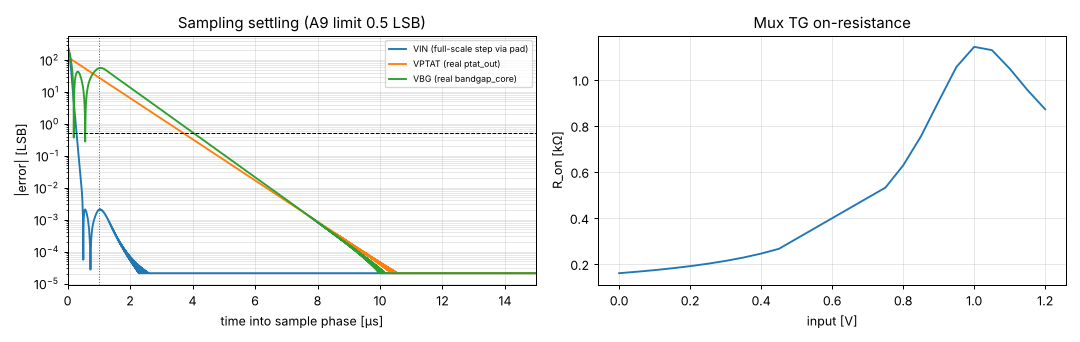
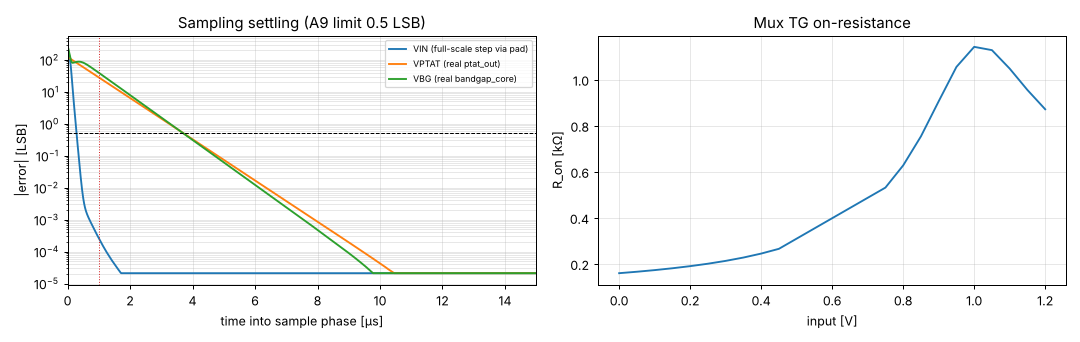
Rerun stages 3, 4, 5, 7 without the stray PSRR cap; fix netlist.sh
The stage 3 PSRR-cap sweep left xschem/bandgap_core.sch with a 2.4 pF
MOS cap (CPS_W=14) after the generator was reset to CPS_W=0, so committed
schematics and results included it. Regenerated and reran: all checks
still pass (bandgap PM 82.5 deg, 79.9 deg with PTAT branch; B7 20.9 dB at
vbg_f). Precision transients now use reltol 1e-5. netlist.sh also enables
'*+' continuation lines of long .subckt port lists.

Claude-Session: https://claude.ai/code/session_018xb9mH8bN9u9RTJdbtix1L

diff --git a/sim/bandgap/README.md b/sim/bandgap/README.md
@@ -18,7 +18,7 @@ testbenches in parallel, writes `results.md` and `plots/bandgap.png`).
 
 ## Phase 1 results (tt, 27 °C, 1.8 V)
 
-See `results.md`. B1, B2, B3 pass; the loop is stable with 66° phase margin; startup works on a
+See `results.md`. B1, B2, B3 pass; the loop is stable with 82.5° phase margin; startup works on a
 1 µs and a 100 µs supply ramp.
 
 ## Findings and decisions
@@ -30,8 +30,9 @@ See `results.md`. B1, B2, B3 pass; the loop is stable with 66° phase margin; st
    the minimum. Corners will push it outside. **Proposal (needs sign-off):** set B1 to
    1.215 V typ, 1.18–1.25 V (±3 %, same as B6). The ADC LSB becomes 4.75 mV.
 3. **OTA Miller cap raised from 0.5 pF to 0.7 pF** (stage 2 re-run: still 80 dB, 81° PM at 0.5 pF).
-   The real load (three 8/4 PMOS gates ≈ 0.8 pF) is heavier than stage 2's estimate. The bandgap
-   loop margin went from 56° to 66°.
+   The 56° measured with 0.5 pF turned out to include a stray 2.4 pF cap (see note 8), so the raise may
+   not be needed. Without that cap the loop has 82.5° at 0.7 pF. **Area option (Phase 2):** go back to
+   0.5 pF (saves ≈ 100 µm²) if corners keep ≥ 60°.
 4. **Loop-gain method:** an L/C break at the OTA output gives wrong results here, because all the
    gate load ends up on the source-driven side. `tb_bandgap_loop` uses Middlebrook double injection
    (voltage + current), which is exact for any loading.
@@ -47,3 +48,9 @@ See `results.md`. B1, B2, B3 pass; the loop is stable with 66° phase margin; st
    a slower clock or a sample-extend mode) or a buffer. To be decided in stage 7.
 7. **Headroom:** VBG starts dropping below VDPWR ≈ 1.6 V at tt (see the line plot). Check at
    ss/−40 °C in Phase 2. The current-mode bandgap fallback stays open.
+8. **Correction (2026-11-07): stale schematic.** The PSRR-cap sweep in this stage overwrote
+   `xschem/bandgap_core.sch` with CPS_W = 14 (a 2.4 pF MOS cap from `vgp` to VDPWR). The generator
+   was reset to CPS_W = 0, but the schematic wasn't regenerated, so the committed schematic and every
+   result in stages 3, 4, 5 and 7 included that cap. All four stages were rerun without it. Everything
+   still passes; phase margin 65.7° → 82.5°, PSRR at 1 MHz −9.8 → −8.9 dB (raw `vbg`).
+   `tools/netlist.sh` now regenerates every schematic from its generator before netlisting.

diff --git a/docs/specs/stage_plan.md b/docs/specs/stage_plan.md
@@ -150,9 +150,9 @@ pass through simulation, layout and LVS on a small block.
 | 0 Devices | — | ✅ 2026-11-01 | | — | — | — | — | `sim/devices/README.md`: ideal zero-TC VBG ≈ 1.25 V (stage 3 later found 1.215 V for the real circuit), tight headroom at 1.62 V |
 | 1 Bias | ✅ 2026-11-01 | ✅ 2026-11-01 | | | | | | `sim/bias/README.md`: 1.00 µA, 2.15 µA own current, starts on fast and slow ramps |
 | 2 OTA | ✅ 2026-11-01 | ✅ 2026-11-01 | | | | | | `sim/ota/README.md`: two-stage, 80.4 dB, PM 81° (0.5 pF load, CC 0.7 pF), 5.8 µA; Monte Carlo offset in Phase 2 |
-| 3 Bandgap | ✅ 2026-11-01 | ✅ 2026-11-01 | | | | | | `sim/bandgap/README.md`: VBG 1.215 V (B1 margin), 15.7 µA, PM 66°, 22 ppm/°C at tt; PSRR at 1 MHz fails |
-| 4 PTAT | ✅ 2026-11-07 | ✅ 2026-11-07 | | | | | | `sim/ptat/README.md`: 0.599 V, 2.00 mV/°C, VBG unaffected, loop PM 64° |
-| 5 VREF chain | ✅ 2026-11-07 | ✅ 2026-11-07 | | | | | | `sim/vref/README.md`: B7 met at vbg_f, DAC-load error 23 µV, stable with pad, external-ref mode works |
+| 3 Bandgap | ✅ 2026-11-01 | ✅ 2026-11-01 | | | | | | `sim/bandgap/README.md`: VBG 1.215 V (B1 margin), 15.7 µA, PM 82.5°, 22 ppm/°C at tt; raw PSRR at 1 MHz fails (fixed by the stage 5 filter) |
+| 4 PTAT | ✅ 2026-11-07 | ✅ 2026-11-07 | | | | | | `sim/ptat/README.md`: 0.599 V, 2.00 mV/°C, VBG unaffected, loop PM 79.9° |
+| 5 VREF chain | ✅ 2026-11-07 | ✅ 2026-11-07 | | | | | | `sim/vref/README.md`: B7 met at vbg_f, DAC-load error 25 µV, stable with pad, external-ref mode works |
 | 6 Comparator | ✅ 2026-11-07 | ✅ 2026-11-07 | | | | | | `sim/comparator/README.md`: 0.44 ns at 1 mV, no net kickback; MC offset/noise in Phase 2 |
 | 7 Switch + mux | ✅ 2026-11-07 | ✅ 2026-11-07 | | | | | | `sim/inmux/README.md`: A9/A14 met; VPTAT/VBG need clk ≤ 100 kHz (decided) |
 | 8 Cap DAC | | | | | | | | |

diff --git a/sim/inmux/results.md b/sim/inmux/results.md
@@ -8,8 +8,8 @@ tt, 27 °C, VDPWR 1.80 V. Generated by `report.py` (`./run.sh`).
 | — | Mux TG on-resistance, 0 … 1.2 V (excluding ±0.1 V around the 0.6 V test return) | 0.16 … 1.14 kΩ | — | | 1 |
 | A14 | DC crosstalk: unselected input 0 → 1.2 V, selected behind 500 Ω | 0.00 µV | ≤ 0.25 LSB = 1.19 mV | ✅ | 1 |
 | — | vcm | 0.7162 V | ≈ 0.6–0.75 V (value cancels) | | 1 |
-| A9 | Sampling error, VIN (full-scale step via pad): after 1 µs / 10 µs; settles to 0.5 LSB in | -0.010 / +0.0000 mV; 0.29 µs | ≤ 0.5 LSB within 1 µs (1 MHz clock) | ✅ | 1 |
-| A9 | Sampling error, VPTAT (real ptat_out): after 1 µs / 10 µs; settles to 0.5 LSB in | +134.627 / +0.0002 mV; 3.72 µs | ≤ 0.5 LSB within 10 µs (≤ 100 kHz clock) | ✅ | 1 |
-| A9 | Sampling error, VBG (real bandgap_core): after 1 µs / 10 µs; settles to 0.5 LSB in | -260.841 / -0.0001 mV; 4.05 µs | ≤ 0.5 LSB within 10 µs (≤ 100 kHz clock) | ✅ | 1 |
+| A9 | Sampling error, VIN (full-scale step via pad): after 1 µs / 10 µs; settles to 0.5 LSB in | -0.001 / +0.0000 mV; 0.29 µs | ≤ 0.5 LSB within 1 µs (1 MHz clock) | ✅ | 1 |
+| A9 | Sampling error, VPTAT (real ptat_out): after 1 µs / 10 µs; settles to 0.5 LSB in | +134.405 / +0.0002 mV; 3.72 µs | ≤ 0.5 LSB within 10 µs (≤ 100 kHz clock) | ✅ | 1 |
+| A9 | Sampling error, VBG (real bandgap_core): after 1 µs / 10 µs; settles to 0.5 LSB in | -187.789 / -0.0001 mV; 3.71 µs | ≤ 0.5 LSB within 10 µs (≤ 100 kHz clock) | ✅ | 1 |
 
 ![inmux](plots/inmux.png)

diff --git a/sim/vref/results.md b/sim/vref/results.md
@@ -5,12 +5,12 @@ tt, 27 °C, VDPWR 1.80 V. Pad model: 5 pF + 500 Ω, probe 10 pF ∥ 1 MΩ. Gener
 | Spec | Quantity | Result | Target | | Phase |
 |---|---|---|---|---|---|
 | — | VREF (internal) | 1.2143 V (buffer offset -1.09 mV) | ≈ VBG |  | 1 |
-| B7 | PSRR at vbg_f, DC / 1 MHz | 45.8 / 20.0 dB | ≥ 40 / ≥ 20 dB | ✅ | early, tt |
-| — | PSRR at vref, DC / 1 MHz | 33.6 / 19.9 dB | — |  | early, tt |
+| B7 | PSRR at vbg_f, DC / 1 MHz | 45.8 / 20.9 dB | ≥ 40 / ≥ 20 dB | ✅ | early, tt |
+| — | PSRR at vref, DC / 1 MHz | 33.6 / 20.6 dB | — |  | early, tt |
 | — | DAC-like load: droop when 1.2 pF connects | 220 mV | — |  | 1 |
-| — | DAC-like load: worst error at end of bit cycle | 22.7 µV | ≤ 0.5 LSB = 2.4 mV | ✅ | 1 |
-| — | Startup: vref within 1 % (after a 1 µs ramp) | 20.8 µs | ≤ 40 µs | ✅ | 1 |
-| — | Follower step (10 mV): overshoot / 10–90 % rise, reservoir only | 0.0 % / 150 ns | stable | ✅ | 1 |
+| — | DAC-like load: worst error at end of bit cycle | 24.6 µV | ≤ 0.5 LSB = 2.4 mV | ✅ | 1 |
+| — | Startup: vref within 1 % (after a 1 µs ramp) | 22.6 µs | ≤ 40 µs | ✅ | 1 |
+| — | Follower step (10 mV): overshoot / 10–90 % rise, reservoir only | 0.0 % / 151 ns | stable | ✅ | 1 |
 | — | Same, with pad + probe via TG (VREF_OE = 1) | 0.0 % / 589 ns | stable | ✅ | 1 |
 | — | Buffer supply current | 9.63 µA | — |  | 1 |
 | — | Total (bias_gen + bandgap + VREF chain) | 25.4 µA | — |  | 1 |

diff --git a/sim/bandgap/results.md b/sim/bandgap/results.md
@@ -7,15 +7,15 @@ Phase-2 rows are early checks at tt only; corners, temperature and supply sweeps
 |---|---|---|---|---|---|
 | B1 | VBG | 1.2154 V | 1.21 … 1.29 V (typ 1.25) | ✅ | 1 |
 | B2 | Supply current, bandgap_core + bias_gen | 15.7 µA (core 13.6) | ≤ 50 µA | ✅ | 1 |
-| B3 | Startup to 1 % after a 1 µs ramp | 0.34 µs after ramp end | ≤ 20 µs | ✅ | 1 |
+| B3 | Startup to 1 % after a 1 µs ramp | 0.47 µs after ramp end | ≤ 20 µs | ✅ | 1 |
 | — | Startup, 100 µs ramp (rule 7) | settled 0.0 µs after ramp end | starts from 0 V | ✅ | 1 |
-| — | Loop gain at DC / crossover | 74.9 dB / 1.51 MHz | — |  | 1 |
-| — | Loop phase margin (Middlebrook) | 65.7° | ≥ 60° (stage target) | ✅ | 1 |
+| — | Loop gain at DC / crossover | 74.9 dB / 1.65 MHz | — |  | 1 |
+| — | Loop phase margin (Middlebrook) | 82.5° | ≥ 60° (stage target) | ✅ | 1 |
 | — | OTA input difference vb − va | -56 µV | — |  | 1 |
 | — | Startup node su when running | 7.2 mV | MSU1 off | ✅ | 1 |
 | B4 | Line regulation 1.62–1.98 V | 6.1 mV/V | ≤ 10 mV/V | ✅ | 2 |
 | B5 | Temperature coefficient, −40…125 °C (tt only) | 22.0 ppm/°C | ≤ 50 ppm/°C | ✅ | 2 |
-| B7 | PSRR at DC / 1 MHz | 45.8 / -9.8 dB | ≥ 40 / ≥ 20 dB | ❌ | 2 |
+| B7 | PSRR at DC / 1 MHz | 45.8 / -8.9 dB | ≥ 40 / ≥ 20 dB | ❌ | 2 |
 | B8 | Power-down current (bandgap_core + bias_gen) | 1.37 nA | ≤ 1 µA | ✅ | 2 |
 
 ![bandgap](plots/bandgap.png)

diff --git a/docs/specs/bandgap.md b/docs/specs/bandgap.md
@@ -65,10 +65,10 @@ stage 3: the zero-TC point of the real circuit, including the resistor TC, is 1.
 |---|---|---|---|---|
 | B1 | 1.2154 V | 1 (tt) | 2026-11-01 | ✅ against the new 1.18–1.25 V window (the old 1.21–1.29 V window passed by only 5 mV) |
 | B2 | 15.7 µA (incl. bias_gen) | 1 | 2026-11-01 | core 13.6 µA |
-| B3 | 0.34 µs after a 1 µs ramp | 1 | 2026-11-01 | also starts on a 100 µs ramp |
+| B3 | 0.47 µs after a 1 µs ramp | 1 | 2026-11-07 | also starts on a 100 µs ramp (rerun without the stray MCPS cap) |
 | B4 | 6.1 mV/V | early, tt only | 2026-11-01 | |
 | B5 | 22 ppm/°C | early, tt only | 2026-11-01 | R2/R1 = 19/2 |
-| B7 | 45.8 dB DC / 20.0 dB at 1 MHz at `vbg_f` | early, tt only | 2026-11-07 | ✅ with the stage 5 RC filter (raw `vbg`: −9.8 dB at 1 MHz) |
+| B7 | 45.8 dB DC / 20.9 dB at 1 MHz at `vbg_f` | early, tt only | 2026-11-07 | ✅ with the stage 5 RC filter (raw `vbg`: −8.9 dB at 1 MHz) |
 | B8 | 1.4 nA | early, tt only | 2026-11-01 | incl. bias_gen |
 | B10 | 0.5988 V | 1 | 2026-11-07 | stage 4, `sim/ptat/` |
 | B11 | 2.004 mV/°C | early, tt only | 2026-11-07 | |

diff --git a/sim/ptat/results.md b/sim/ptat/results.md
@@ -5,9 +5,9 @@ tt corner, VDPWR 1.80 V. Generated by `report.py` (`./run.sh`).
 | Spec | Quantity | Result | Target | | Phase |
 |---|---|---|---|---|---|
 | B10 | VPTAT at 27 °C | 0.5988 V | 0.5 … 0.7 V | ✅ | 1 |
-| — | VBG change from adding the branch | 0.003 µV | < 100 µV | ✅ | 1 |
-| — | VBG change with vptat loaded by 100 kΩ | -0.001 µV | < 100 µV | ✅ | 1 |
-| — | Bandgap loop phase margin with the branch | 64.0° (fu 1.49 MHz) | ≥ 60° | ✅ | 1 |
+| — | VBG change from adding the branch | 0.004 µV | < 100 µV | ✅ | 1 |
+| — | VBG change with vptat loaded by 100 kΩ | -0.002 µV | < 100 µV | ✅ | 1 |
+| — | Bandgap loop phase margin with the branch | 79.9° (fu 1.64 MHz) | ≥ 60° | ✅ | 1 |
 | B11 | VPTAT slope, −40…125 °C (tt only) | 2.004 mV/°C | ≥ 1.8 mV/°C | ✅ | 2 (early) |
 | — | Max deviation from a straight line | 0.22 mV | — |  | 2 (early) |
 | B12 | Resolution with the 8-bit ADC (LSB 4.75 mV) | 2.37 °C/LSB | ≤ 2.7 °C/LSB | ✅ | 2 (early) |

diff --git a/sim/vref/README.md b/sim/vref/README.md
@@ -17,10 +17,10 @@ Drawing: `material/schematics/stage5_vref.png`. Run: `./run.sh`.
 
 ## Phase 1 results (tt, 27 °C, 1.8 V)
 
-See `results.md`. B7 is met at `vbg_f` (45.8 dB DC, 20.0 dB at 1 MHz). A 1.2 pF DAC-like load
-connected every 1 µs pulls `vref` down by 220 mV (charge sharing), and it recovers to within 23 µV by
+See `results.md`. B7 is met at `vbg_f` (45.8 dB DC, 20.9 dB at 1 MHz). A 1.2 pF DAC-like load
+connected every 1 µs pulls `vref` down by 220 mV (charge sharing), and it recovers to within 25 µV by
 the end of each bit cycle (target 2.4 mV). It's stable with and without the pad, and starts in
-21 µs (set by the filter). The external-reference and power-down modes work.
+23 µs (set by the filter). The external-reference and power-down modes work.
 
 ## Notes
 

diff --git a/sim/inmux/README.md b/sim/inmux/README.md
@@ -28,7 +28,7 @@ after 1 µs (full-scale step through the pad model).
 ## Decision: VBG and VPTAT are converted with a slow clock
 
 VPTAT (≈ 266 kΩ source) and VBG (≈ 240 kΩ) can't charge the 2.4 pF DAC within a 1 µs sample phase
-(errors +135 mV / −261 mV after 1 µs). They settle to 0.5 LSB in 3.7 µs / 4.1 µs, and are exact
+(errors +134 mV / −188 mV after 1 µs). They settle to 0.5 LSB in 3.7 µs / 3.7 µs, and are exact
 (< 1 µV) after 10 µs. **Rule: for INSEL = 01/10, run the ADC clock at ≤ 100 kHz** (10 µs sample
 phase, ≥ 2.5× margin). The temperature sensor and bandgap check don't need speed, and this saves a
 buffer (area and current). This goes in the test procedure (`docs/info.md`) and the RP2040 firmware.

diff --git a/sim/ptat/README.md b/sim/ptat/README.md
@@ -12,7 +12,7 @@ resistor TC cancels and VPTAT is proportional to absolute temperature.
 ## Phase 1 results (tt, 27 °C, 1.8 V)
 
 See `results.md`: VPTAT = 0.599 V (B10). Adding the branch, or loading `vptat` with 100 kΩ, changes
-VBG by nanovolts. The bandgap loop phase margin with the extra gate on `vgp` is 64° (was 66°).
+VBG by nanovolts. The bandgap loop phase margin with the extra gate on `vgp` is 79.9° (82.5° without it).
 Early tt-only temperature checks: 2.00 mV/°C (B11), 2.37 °C/LSB (B12).
 
 ## Notes for Phase 2 and later stages
